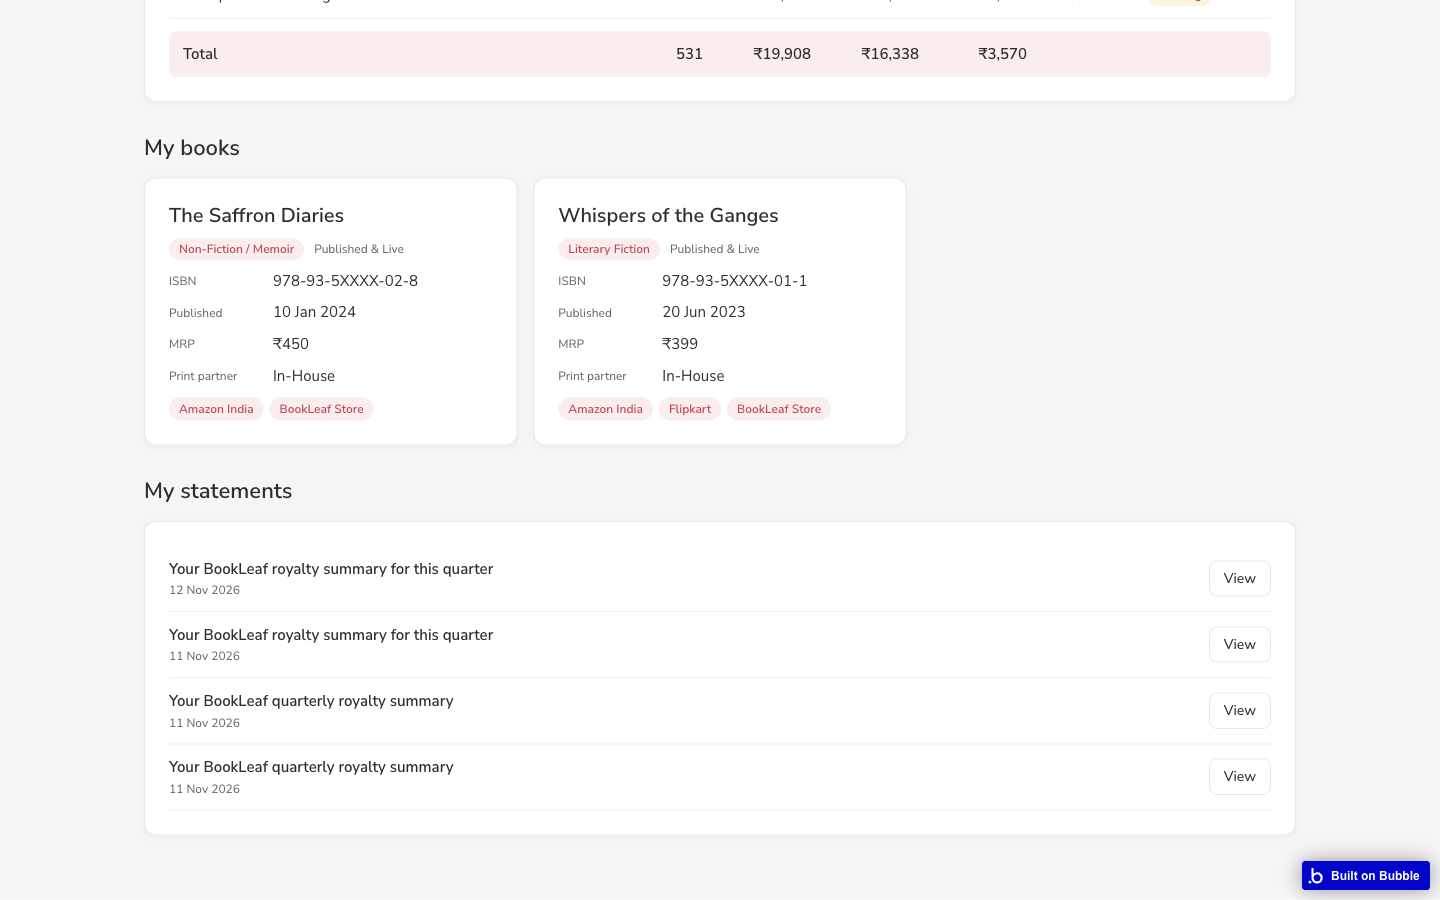
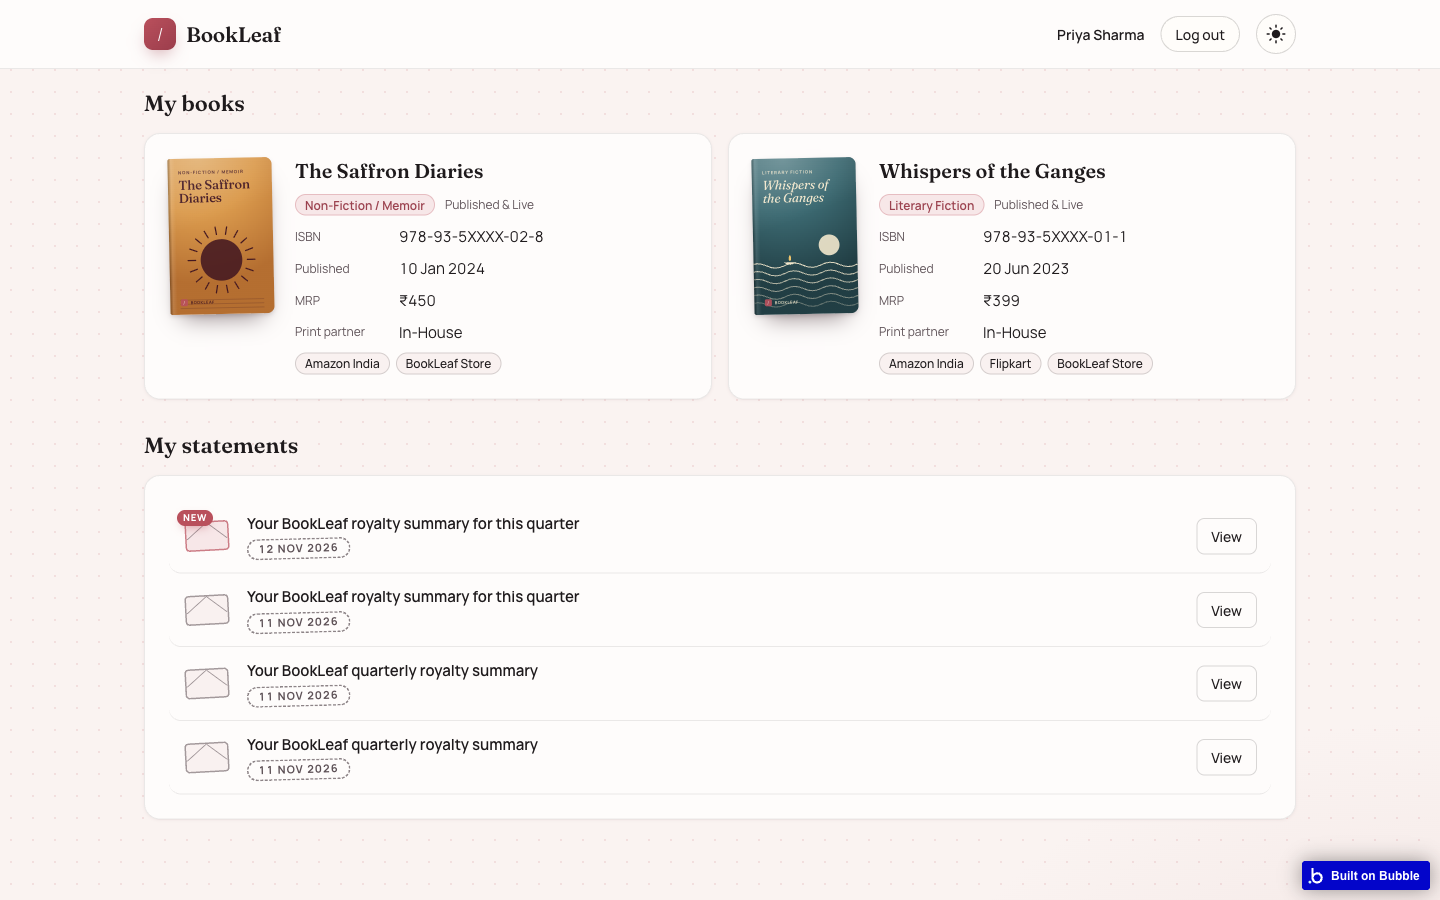
docs(tasks): author dashboard redesign done (f67cd66); refreshed author screenshots

diff --git a/TASKS.md b/TASKS.md
@@ -61,6 +61,7 @@ Legend: ⬜ TODO · 🔄 In progress · ✅ Done (commit SHA) · ⛔ Blocked
 - ✅ Sign-in page redesigned as "The Living Bookshelf" (concept 1): native Bubble sign-in, 8 workflows and 2 custom states unchanged; bookshelf scene is one HTML element; live checks passed (4e13027)
 - ✅ Bubble collaborator tried for musavir@bookleafpub.in: the free plan needs Growth to invite; fallback (URL + logins + video) noted in README (353ae27)
 - ✅ Dashboard UI round (admin, reset_pw, 404; desktop): shared theme layer with dark mode and the ink-splash toggle, alignment fixes, pop-ups that fit the window with one scrolling middle, pay chart in ~1.3 s instead of ~8.4 s, dark email preview and backdrop (fbc1d45, 19c2bf6). Author dashboard restyle written but handed to a separate redesign; admin screenshots in `docs/media/` refreshed
+- ✅ Author dashboard redesign "Your shelf" (desktop): face-out books with the login art and status labels, click to jump to the book; KPI count-up, ink meter, amber pending, tear-off payout calendar; paid-vs-pending bars and a ledger total; cover thumbnails; letter-style statements; dark-mode contrast fixed (AA audit 0 fails), stray rectangle removed, reset_pw dark borders (f67cd66). Author screenshots in `docs/media/` refreshed
 - 🔄 Video (~4 min, real footage + AI voice) being produced
 - ⬜ Share links: GitHub access for the reviewer (private repo) and the video link
 - ⬜ Reply email: draft ready; send on the same thread after the links are in

diff --git a/README.md b/README.md
@@ -26,7 +26,7 @@ date the sample data ends; admins can switch to today's date in Settings
 
 | | |
 |---|---|
-| ![Sign-in: the Living Bookshelf](docs/media/login.png) Sign-in: the Living Bookshelf, with one-click demo logins | ![Author dashboard](docs/media/author-dashboard.png) Author: KPI tiles and royalty overview badges |
+| ![Sign-in: the Living Bookshelf](docs/media/login.png) Sign-in: the Living Bookshelf, with one-click demo logins | ![Author dashboard](docs/media/author-dashboard.png) Author: your shelf, KPI tiles and royalty overview |
 | ![Author books](docs/media/author-books.png) Author: My books and statements | ![Admin overview](docs/media/admin-overview.png) Admin: KPIs, charts, bulk send |
 | ![Admin authors](docs/media/admin-authors.png) Admin: authors table with filters | ![Author detail](docs/media/admin-author-detail.png) Admin: author drawer with Generate & Send |
 | ![Live progress](docs/media/admin-progress.png) Admin: live progress stepper | ![Notification log](docs/media/notification-log.png) Notification log: status, cost, preview |
